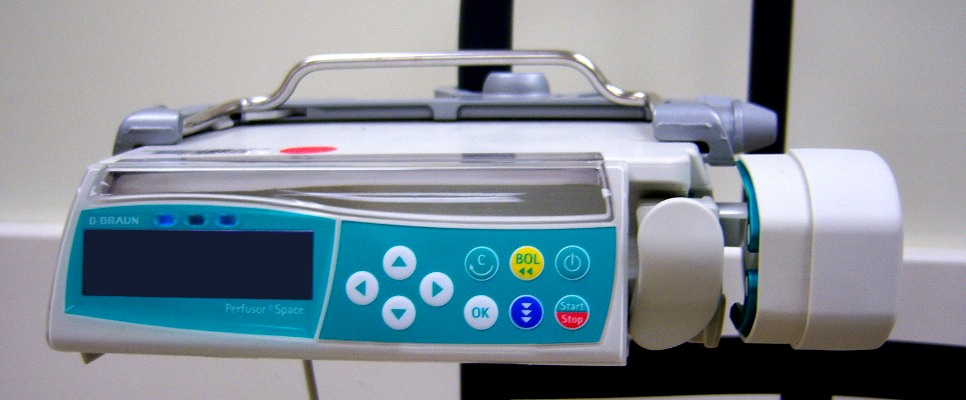
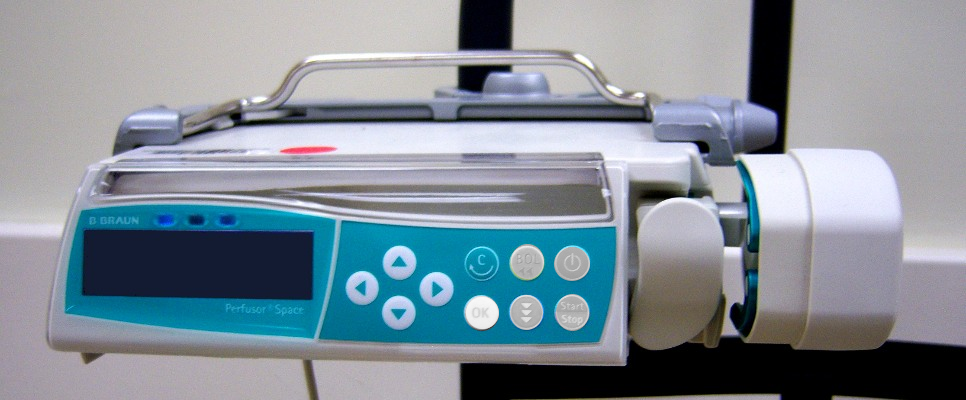
minor changes for BBraun and GPCA-UI demos

Changed region(s): [[0.4658, 0.6, 0.6211, 0.84]]

diff --git a/examples/demos/BBraun/js/index.js b/examples/demos/BBraun/js/index.js
@@ -17,17 +17,20 @@ require.config({
     }
 });
 
-var d3 = null;
-
 require(["widgets/CursoredDisplay", "plugins/graphbuilder/GraphBuilder", "PVSioWebClient"], function (CursoredDisplay, GraphBuilder, PVSioWebClient) {
     "use strict";
     
-    d3 = require("d3/d3");
+    var d3 = require("d3/d3");
     
     var w = 228, h = 64;
 	var client = PVSioWebClient.getInstance();
     //create a collapsible panel using the pvsiowebclient instance
-    var imageHolder = client.createCollapsiblePanel({parent: "#content", headerText: "BBraun Space", showContent: true}).style("position", "relative");
+    var imageHolder = client.createCollapsiblePanel({
+        parent: "#content",
+        headerText: "Simulation of the data entry system of a medical infusion pump. Please use the navigation keys of the medical device to interact with the device (greyed out keys are disabled keys).",
+        showContent: true,
+        isDemo: true
+    }).style("position", "relative");
     //insert the html into the panel (note that this could have used templates or whatever)
     imageHolder.html('<img src="image.png" usemap="#prototypeMap"/>');
     //append a div that will contain the canvas element
@@ -103,7 +106,7 @@ require(["widgets/CursoredDisplay", "plugins/graphbuilder/GraphBuilder", "PVSioW
 	client.addListener('WebSocketConnectionOpened', function (e) {
 		console.log("web socket connected");
 		//start pvs process
-		client.getWebSocket().startPVSProcess({fileName: "bbraun_space.pvs", demoName: "BBraun/pvs"}, function (err, event) {
+		client.getWebSocket().startPVSProcess({name: "bbraun_space.pvs", demoName: "BBraun/pvs"}, function (err, event) {
 			d3.selectAll("button").style("display", null);
 		});
 	}).addListener("WebSocketConnectionClosed", function (e) {

diff --git a/examples/demos/GPCA-UI_PVS/NavKeys/scripts/pvsio_utils.js b/examples/demos/GPCA-UI_PVS/NavKeys/scripts/pvsio_utils.js
@@ -701,7 +701,7 @@ require(["scripts/gip.js", "PVSioWebClient"], function(_g, PVSioWebClient){
         uiConsole.style.display = "none";
         log("Loading GPCA model...");
 		//start pvs process
-		client.getWebSocket().startPVSProcess({fileName: "main.pvs", demoName: "GPCA-UI_PVS"}, function (err, event) {
+		client.getWebSocket().startPVSProcess({name: "main.pvs", demoName: "GPCA-UI_PVS"}, function (err, event) {
             ws.sendGuiAction("GPCA_init(0);", onOutPutUpdated);
             log("Starting GPCA simulation...");
 		});
